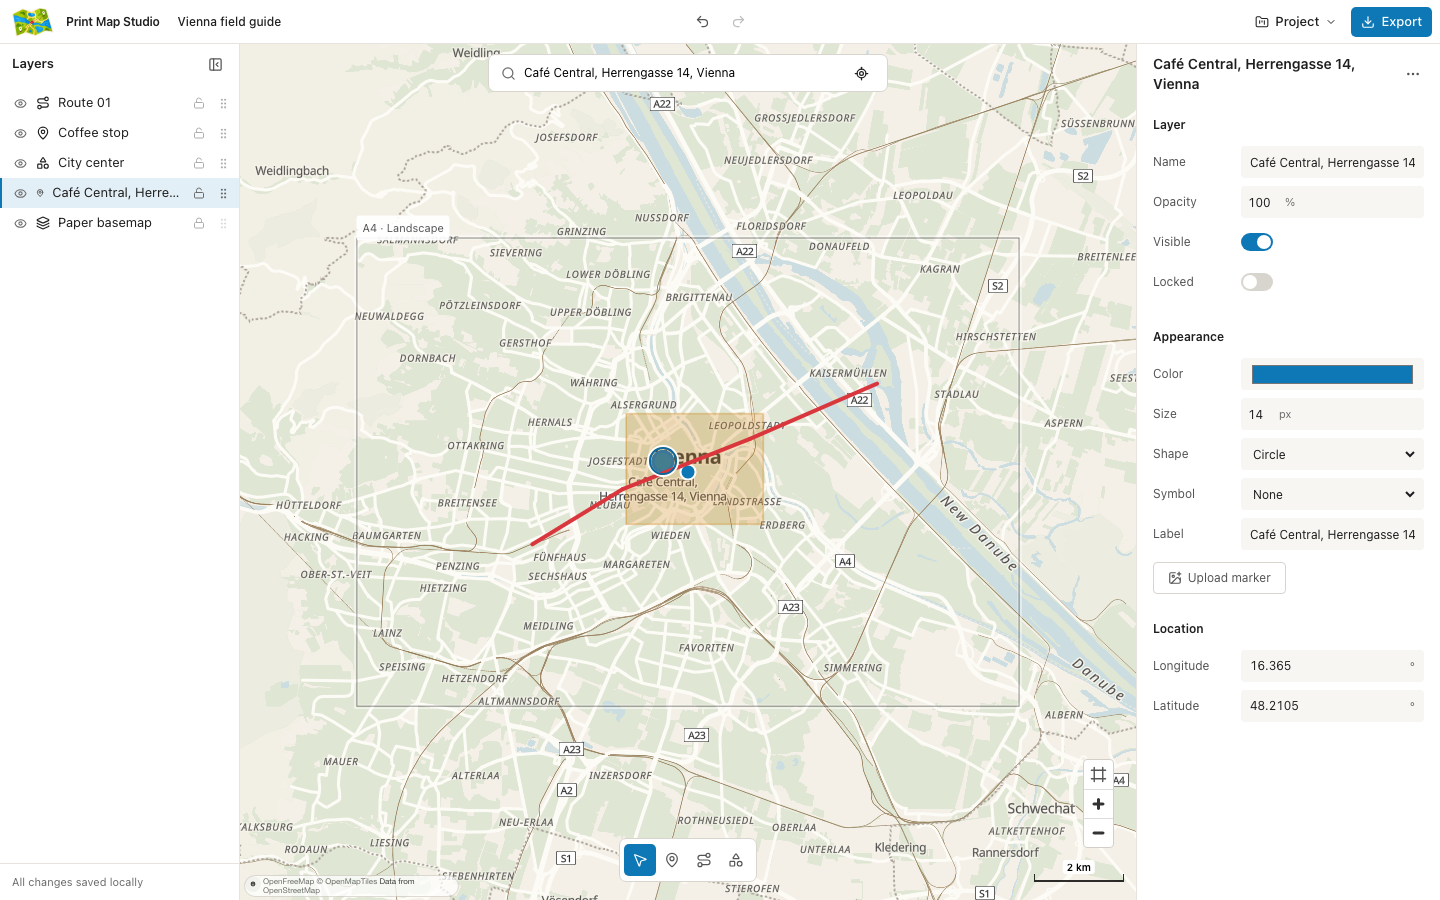
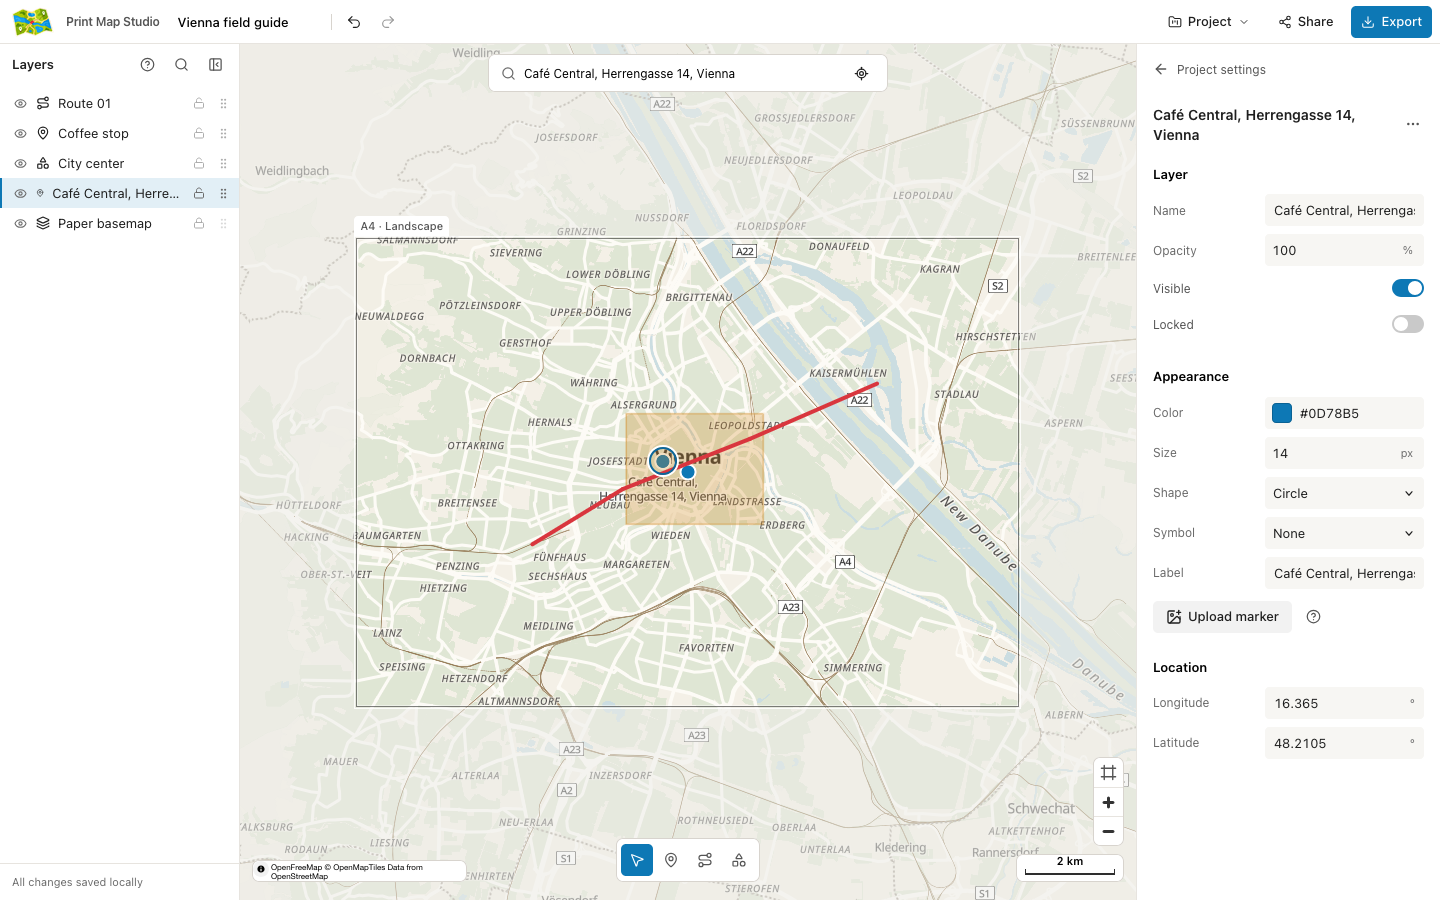
Disambiguate Project menu locators and follow the shared disabled opacity

diff --git a/tests/e2e/project-navigation.spec.ts b/tests/e2e/project-navigation.spec.ts
@@ -6,7 +6,7 @@ test('Project menu actions round-trip the portable project', async ({ page }, te
   await page.getByRole('radio', { name: 'Portrait' }).click();
 
   const downloadPromise = page.waitForEvent('download');
-  await page.getByRole('button', { name: 'Project' }).click(); await page.getByRole('menuitem', { name: 'Download project' }).click();
+  await page.getByRole('button', { name: 'Project', exact: true }).click(); await page.getByRole('menuitem', { name: 'Download project' }).click();
   const download = await downloadPromise;
   const projectPath = testInfo.outputPath('direct-save.printmap.json');
   await download.saveAs(projectPath);
@@ -14,7 +14,7 @@ test('Project menu actions round-trip the portable project', async ({ page }, te
 
   await page.getByRole('radio', { name: 'Landscape' }).click();
   const chooserPromise = page.waitForEvent('filechooser');
-  await page.getByRole('button', { name: 'Project' }).click(); await page.getByRole('menuitem', { name: 'Open project' }).click();
+  await page.getByRole('button', { name: 'Project', exact: true }).click(); await page.getByRole('menuitem', { name: 'Open project' }).click();
   const chooser = await chooserPromise;
   await chooser.setFiles(projectPath);
   await page.getByRole('button', { name: 'Replace project', exact: true }).click();
@@ -27,7 +27,7 @@ test('Project actions and Export remain reachable in the mobile header', async (
   await page.setViewportSize({ width: 390, height: 844 });
   await page.goto('./');
 
-  const project = page.getByRole('button', { name: 'Project' });
+  const project = page.getByRole('button', { name: 'Project', exact: true });
   const exportAction = page.getByRole('button', { name: 'Export' });
   await expect(project).toBeVisible();
   await expect(exportAction).toBeVisible();

diff --git a/tests/e2e/mission-nominal.spec.ts b/tests/e2e/mission-nominal.spec.ts
@@ -86,7 +86,7 @@ test('nominal design, author, import, persist, reopen, and export workflow', asy
   await expect(mapCanvas).toHaveAttribute('data-map-ready', 'true', { timeout: 20_000 });
 
   const projectDownloadPromise = page.waitForEvent('download');
-  await page.getByRole('button', { name: 'Project' }).click(); await page.getByRole('menuitem', { name: 'Download project' }).click();
+  await page.getByRole('button', { name: 'Project', exact: true }).click(); await page.getByRole('menuitem', { name: 'Download project' }).click();
   const projectDownload = await projectDownloadPromise;
   const projectPath = testInfo.outputPath('nominal-workflow.printmap.json');
   await projectDownload.saveAs(projectPath);
@@ -100,7 +100,7 @@ test('nominal design, author, import, persist, reopen, and export workflow', asy
 
   await page.getByRole('radio', { name: 'Landscape' }).click();
   const openChooserPromise = page.waitForEvent('filechooser');
-  await page.getByRole('button', { name: 'Project' }).click(); await page.getByRole('menuitem', { name: 'Open project' }).click();
+  await page.getByRole('button', { name: 'Project', exact: true }).click(); await page.getByRole('menuitem', { name: 'Open project' }).click();
   const openChooser = await openChooserPromise;
   await openChooser.setFiles(projectPath);
   await page.getByRole('button', { name: 'Replace project', exact: true }).click();

diff --git a/tests/e2e/global-administrative-catalogue.spec.ts b/tests/e2e/global-administrative-catalogue.spec.ts
@@ -63,7 +63,7 @@ test('generated worldwide catalogue lazily creates a durable Japanese region', a
   await expect(page.getByTestId('map-canvas')).toHaveAttribute('data-map-layer-geometry', /admin-jp-26:/);
 
   const savePromise = page.waitForEvent('download');
-  await page.getByRole('button', { name: 'Project' }).click(); await page.getByRole('menuitem', { name: 'Download project' }).click();
+  await page.getByRole('button', { name: 'Project', exact: true }).click(); await page.getByRole('menuitem', { name: 'Download project' }).click();
   const save = await savePromise;
   const savePath = testInfo.outputPath('japan-region.printmap.json');
   await save.saveAs(savePath);
@@ -108,7 +108,7 @@ test('generated worldwide catalogue lazily creates a durable country', async ({ 
   await expect(page.getByTestId('map-canvas')).toHaveAttribute('data-map-layer-geometry', /admin-ind:/);
 
   const savePromise = page.waitForEvent('download');
-  await page.getByRole('button', { name: 'Project' }).click(); await page.getByRole('menuitem', { name: 'Download project' }).click();
+  await page.getByRole('button', { name: 'Project', exact: true }).click(); await page.getByRole('menuitem', { name: 'Download project' }).click();
   const save = await savePromise;
   const savePath = testInfo.outputPath('india-country.printmap.json');
   await save.saveAs(savePath);

diff --git a/tests/e2e/editor-shell-actions.spec.ts b/tests/e2e/editor-shell-actions.spec.ts
@@ -146,7 +146,7 @@ test('initial editor search, live scale, title history, and Project actions work
   await expect(undo).toBeDisabled();
   await expect(redo).toBeDisabled();
   await expect(undo).toHaveCSS('cursor', 'default');
-  await expect(undo).toHaveCSS('opacity', '0.38');
+  await expect(undo).toHaveCSS('opacity', '0.45');
 
   await page.getByRole('button', { name: 'Vienna field guide' }).click();
   const title = page.getByRole('textbox', { name: 'Project title' });
@@ -174,7 +174,7 @@ test('initial editor search, live scale, title history, and Project actions work
   await page.getByRole('button', { name: 'Zoom in' }).click();
   await expect(scale).not.toHaveAttribute('aria-label', initialScale!);
 
-  const project = page.getByRole('button', { name: 'Project' });
+  const project = page.getByRole('button', { name: 'Project', exact: true });
   await expect(project).toBeVisible();
   await expect(page.getByRole('button', { name: 'Export' })).toBeVisible();
   await expect(page.getByRole('button', { name: 'Share' })).toHaveCount(0);

diff --git a/tests/e2e/map-matching.spec.ts b/tests/e2e/map-matching.spec.ts
@@ -57,7 +57,7 @@ test('selected route matches to roads and remains durable editable and exportabl
   await page.screenshot({ animations: 'disabled', path: testInfo.outputPath('UX041-existing-open.png') });
 
   const savePromise = page.waitForEvent('download');
-  await page.getByRole('button', { name: 'Project' }).click(); await page.getByRole('menuitem', { name: 'Download project' }).click();
+  await page.getByRole('button', { name: 'Project', exact: true }).click(); await page.getByRole('menuitem', { name: 'Download project' }).click();
   const save = await savePromise;
   const projectPath = testInfo.outputPath('map-matched.printmap.json');
   await save.saveAs(projectPath);

diff --git a/tests/e2e/road-routing.spec.ts b/tests/e2e/road-routing.spec.ts
@@ -95,7 +95,7 @@ test('road route edits semantic waypoints by rerouting and exports offline', asy
   await page.getByRole('button', { name: 'Redo' }).click();
 
   const projectDownloadPromise = page.waitForEvent('download');
-  await page.getByRole('button', { name: 'Project' }).click(); await page.getByRole('menuitem', { name: 'Download project' }).click();
+  await page.getByRole('button', { name: 'Project', exact: true }).click(); await page.getByRole('menuitem', { name: 'Download project' }).click();
   const projectDownload = await projectDownloadPromise;
   const projectPath = test.info().outputPath('road-route.printmap.json');
   await projectDownload.saveAs(projectPath);

diff --git a/tests/e2e/map-style-gallery.spec.ts b/tests/e2e/map-style-gallery.spec.ts
@@ -51,7 +51,7 @@ test('chooses original map presets through the responsive thumbnail gallery', as
   await expect(map).toHaveAttribute('data-map-ready', 'true', { timeout: 20_000 });
 
   const projectDownloadPromise = page.waitForEvent('download');
-  await page.getByRole('button', { name: 'Project' }).click(); await page.getByRole('menuitem', { name: 'Download project' }).click();
+  await page.getByRole('button', { name: 'Project', exact: true }).click(); await page.getByRole('menuitem', { name: 'Download project' }).click();
   const projectDownload = await projectDownloadPromise;
   const projectPath = await projectDownload.path();
   expect(projectPath).not.toBeNull();

diff --git a/tests/e2e/poi-authoring.spec.ts b/tests/e2e/poi-authoring.spec.ts
@@ -113,7 +113,7 @@ test('pasted address rows become one durable geocoded POI batch', async ({ page 
   expect(queries).toEqual(['Herrengasse 14, Vienna', 'Museumsplatz 1, Vienna']);
 
   const downloadPromise = page.waitForEvent('download');
-  await page.getByRole('button', { name: 'Project' }).click(); await page.getByRole('menuitem', { name: 'Download project' }).click();
+  await page.getByRole('button', { name: 'Project', exact: true }).click(); await page.getByRole('menuitem', { name: 'Download project' }).click();
   const download = await downloadPromise;
   const projectPath = testInfo.outputPath('geocoded-pois.printmap.json');
   await download.saveAs(projectPath);

diff --git a/tests/e2e/isochrone-authoring.spec.ts b/tests/e2e/isochrone-authoring.spec.ts
@@ -72,7 +72,7 @@ test('travel-time area becomes one durable editable and exportable project layer
   expect(isochroneRequests).toBe(1);
 
   const savePromise = page.waitForEvent('download');
-  await page.getByRole('button', { name: 'Project' }).click(); await page.getByRole('menuitem', { name: 'Download project' }).click();
+  await page.getByRole('button', { name: 'Project', exact: true }).click(); await page.getByRole('menuitem', { name: 'Download project' }).click();
   const save = await savePromise;
   const projectPath = testInfo.outputPath('cycling-isochrone.printmap.json');
   await save.saveAs(projectPath);

diff --git a/tests/e2e/search-poi.spec.ts b/tests/e2e/search-poi.spec.ts
@@ -47,7 +47,7 @@ test('searched address becomes one durable editable and exportable POI', async (
   expect(searchRequests).toBe(1);
 
   const savePromise = page.waitForEvent('download');
-  await page.getByRole('button', { name: 'Project' }).click(); await page.getByRole('menuitem', { name: 'Download project' }).click();
+  await page.getByRole('button', { name: 'Project', exact: true }).click(); await page.getByRole('menuitem', { name: 'Download project' }).click();
   const save = await savePromise;
   const projectPath = test.info().outputPath('searched-poi.printmap.json');
   await save.saveAs(projectPath);

diff --git a/tests/e2e/map-style-customization.spec.ts b/tests/e2e/map-style-customization.spec.ts
@@ -40,7 +40,7 @@ test('a maker quick-tunes, overrides one semantic color, and returns to the main
   await page.screenshot({ path: 'docs/screenshots/map-style-customization-main-20260830.png' });
 
   const downloadPromise = page.waitForEvent('download');
-  await page.getByRole('button', { name: 'Project' }).click();
+  await page.getByRole('button', { name: 'Project', exact: true }).click();
   await page.getByRole('menuitem', { name: 'Download project' }).click();
   const download = await downloadPromise;
   const projectPath = await download.path();

diff --git a/tests/e2e/advanced-route-controls.spec.ts b/tests/e2e/advanced-route-controls.spec.ts
@@ -94,7 +94,7 @@ test('converts every route-kind pair and atomically remaps local structure', asy
 
   await page.getByRole('combobox', { name: 'Route line style' }).selectOption('dashed');
   const chooserPromise = page.waitForEvent('filechooser');
-  await page.getByRole('button', { name: 'Project' }).click();
+  await page.getByRole('button', { name: 'Project', exact: true }).click();
   await page.getByRole('menuitem', { name: 'Open project' }).click();
   const chooser = await chooserPromise;
   await chooser.setFiles(saved.path);
